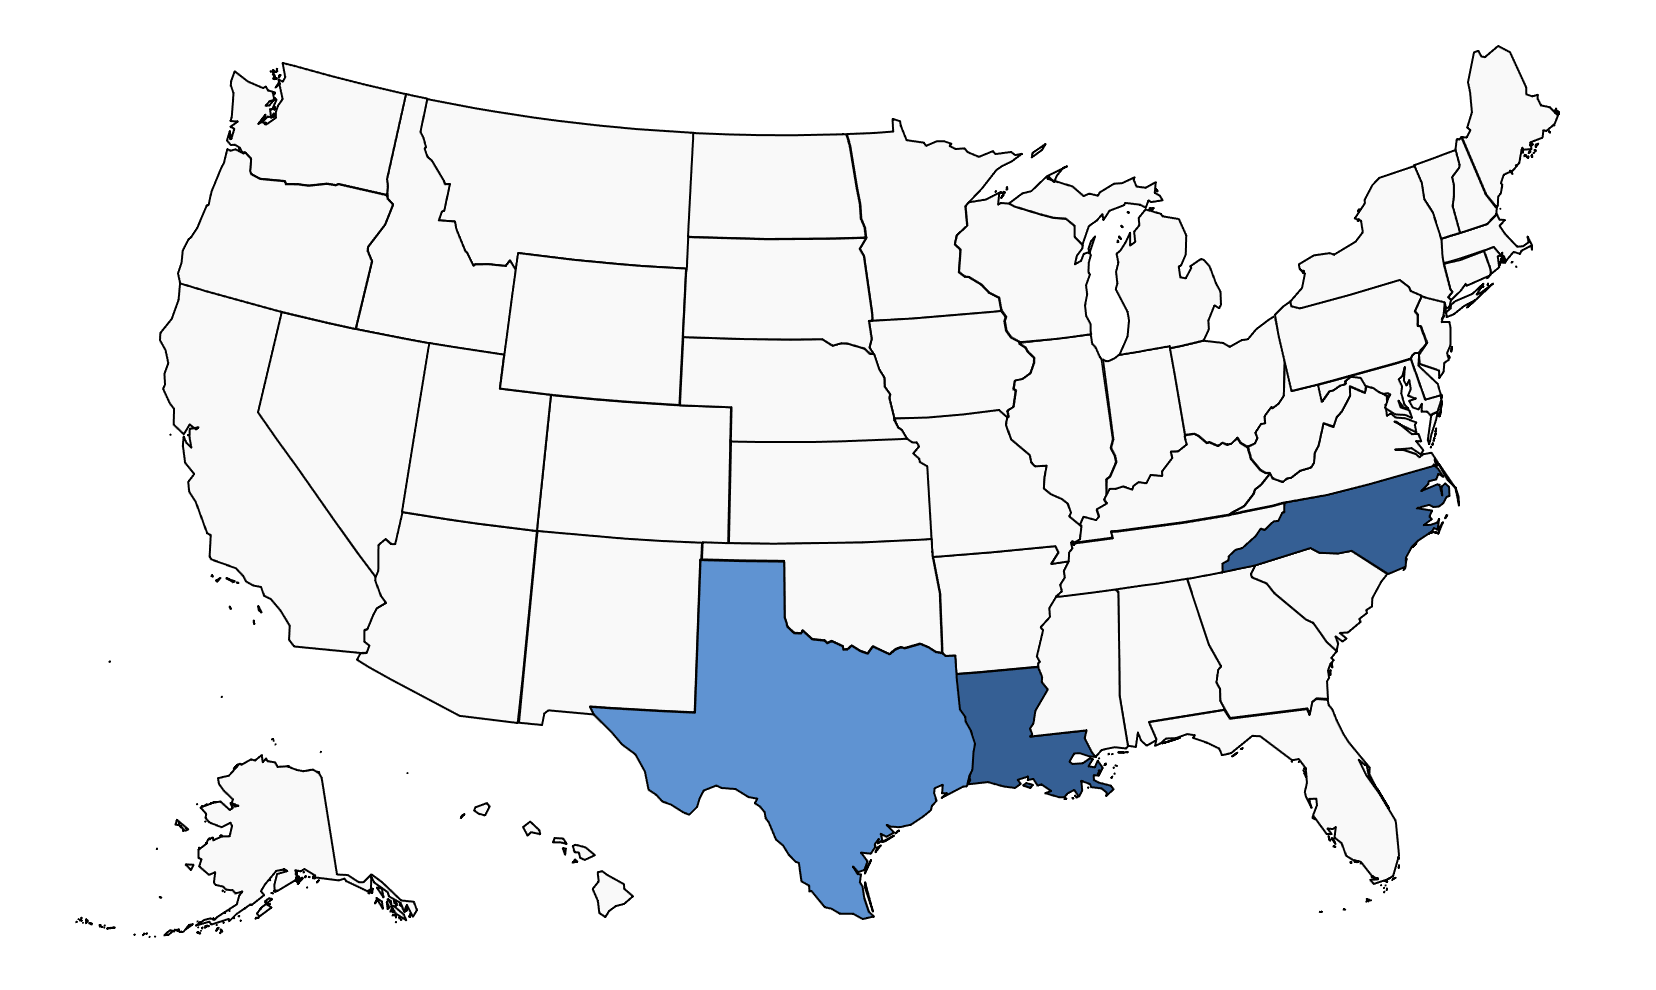
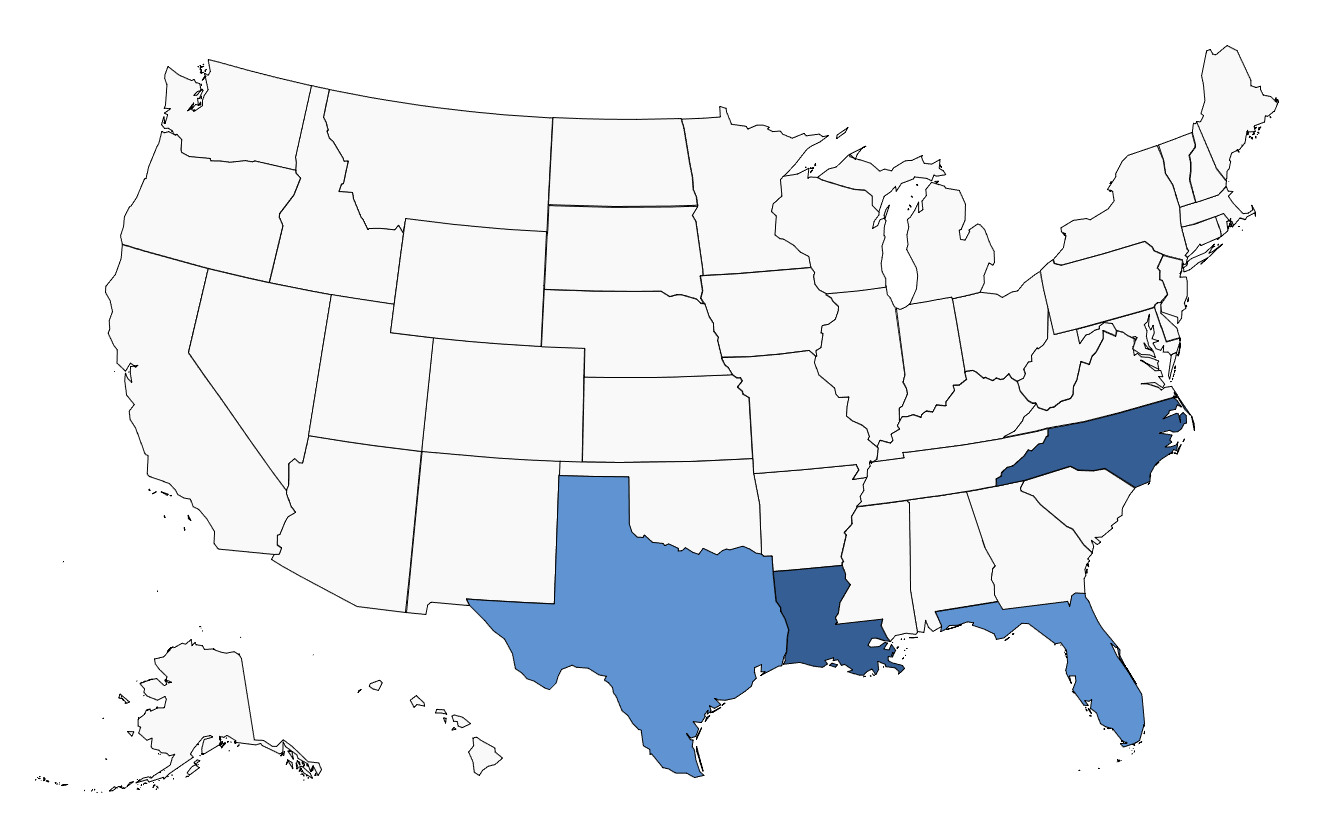
Built site for gh-pages

diff --git a/styles.css b/styles.css
@@ -320,7 +320,7 @@ body main.content {
   border: 1px solid #e1e5ee;
   background:
     linear-gradient(90deg, rgba(255,255,255,0.92) 0%, rgba(255,255,255,0.80) 45%, rgba(255,255,255,0.30) 100%),
-    url("images/map.jpg") center / cover no-repeat;
+    url("images/map.jpg") center 70% / cover no-repeat;
   box-shadow: 0 12px 34px rgba(0, 0, 0, 0.07);
 }
 
